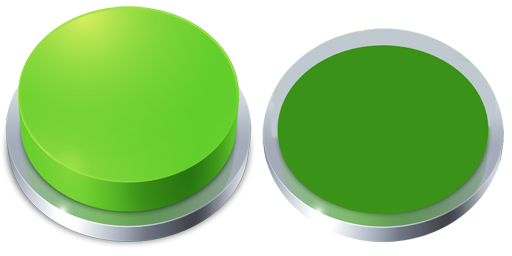
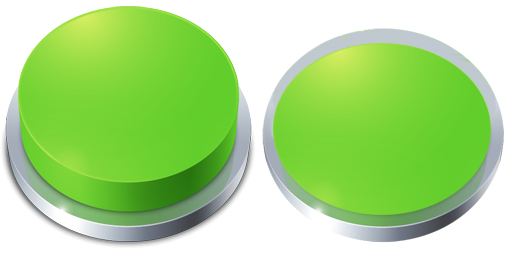
In home.

diff --git a/src/org/game/bangyouscreen/gameLevels/GameLevel.java b/src/org/game/bangyouscreen/gameLevels/GameLevel.java
@@ -31,6 +31,7 @@ public class GameLevel extends ManagedScene {
 	private Text mScoreText;
 	private int mScore = 0;
 	private GameTimer mGameTime;
+	private boolean mTenSeconds = false;
 	private GameScore mGameScore;
 	
 	private AnimatedSprite aidSkill1AS;
@@ -46,7 +47,7 @@ public class GameLevel extends ManagedScene {
 	private Sprite xue2Sprite;
 	
 	private ButtonSprite greenButtonBS;
-	private ButtonSprite blueButtonBS;
+	private ButtonSprite redButtonBS;
 	
 	public static GameLevel getInstance(){
 		return INSTANCE;
@@ -83,7 +84,7 @@ public class GameLevel extends ManagedScene {
 		
 		//BOSS血条
 		xue1Sprite = new Sprite(0f,0f,ResourceManager.xue1,mVertexBufferObjectManager);
-		xue1Sprite.setPosition(mCameraWidth/2f, mCameraHeight - xue1Sprite.getHeight()/2f);
+		xue1Sprite.setPosition(mCameraWidth/2f, mCameraHeight - xue1Sprite.getHeight()/2f-5f);
 		xue1Sprite.setSize(0.6875f*mCameraWidth, 0.05833f*mCameraHeight);
 		//xue1Sprite.setSize(0.5f*mCameraWidth, 0.1f*mCameraHeight);
 		//EntityUtil.setSize("width", 0.6875f, xue1Sprite);
@@ -151,10 +152,10 @@ public class GameLevel extends ManagedScene {
 		registerTouchArea(greenButtonBS);
 		
 		//蓝色按钮
-		blueButtonBS = new ButtonSprite(0f,0f,ResourceManager.greenButtonTTR,mVertexBufferObjectManager);
-		EntityUtil.setSize("height", 1f / 4f, blueButtonBS);
-		blueButtonBS.setPosition(mCameraWidth - blueButtonBS.getWidth() / 2f, blueButtonBS.getHeight() / 2f);
-		blueButtonBS.setOnClickListener(new OnClickListener(){
+		redButtonBS = new ButtonSprite(0f,0f,ResourceManager.redButtonTTR,mVertexBufferObjectManager);
+		EntityUtil.setSize("height", 1f / 4f, redButtonBS);
+		redButtonBS.setPosition(mCameraWidth - redButtonBS.getWidth() / 2f, redButtonBS.getHeight() / 2f);
+		redButtonBS.setOnClickListener(new OnClickListener(){
 
 			public void onClick(ButtonSprite pButtonSprite,
 					float pTouchAreaLocalX, float pTouchAreaLocalY) {
@@ -181,8 +182,8 @@ public class GameLevel extends ManagedScene {
 //					angelbossAS.animate(frameDur,0,1,true);
 //				}
 			}});
-		attachChild(blueButtonBS);
-		registerTouchArea(blueButtonBS);
+		attachChild(redButtonBS);
+		registerTouchArea(redButtonBS);
 		
 		//时钟
 		ButtonSprite clockSprite = new ButtonSprite(0f,0f,ResourceManager.clockTR,mVertexBufferObjectManager);
@@ -284,7 +285,8 @@ public class GameLevel extends ManagedScene {
 				mGameTime.mDigitsSprite[3].setScale(1.0F);
 				mGameTime.mDigitsSprite[2].setScale(1.0F);
 			} else {
-				if(gameTime <= 10f){
+				if((!mTenSeconds) && gameTime <= 10f){
+					mTenSeconds = true;
 					mGameTime.mBounceOut1.reset();
 					mGameTime.mBounceOut2.reset();
 					mGameTime.mDigitsSprite[3].registerEntityModifier(mGameTime.mBounceOut1);
@@ -293,12 +295,20 @@ public class GameLevel extends ManagedScene {
 					mGameTime.mColorOut2.reset();
 					mGameTime.mDigitsSprite[3].registerEntityModifier(mGameTime.mColorOut1);
 					mGameTime.mDigitsSprite[2].registerEntityModifier(mGameTime.mColorOut2);
+				}else if(mTenSeconds && gameTime > 10f){
+					mTenSeconds = false;
+					//mGameTime.mDigitsSprite[3].registerEntityModifier(mGameTime.mColorOut1);
+					//mGameTime.mDigitsSprite[2].registerEntityModifier(mGameTime.mColorOut2);
+					mGameTime.mDigitsSprite[3].clearEntityModifiers();
+					mGameTime.mDigitsSprite[2].clearEntityModifiers();
+					mGameTime.mDigitsSprite[3].setScale(1.0F);
+					mGameTime.mDigitsSprite[2].setScale(1.0F);
 				}
 				mGameTime.adjustTime(gameTime);
 			}
 			
 			//BOSS移动
-			if(angelbossAS.getY() - angelbossAS.getHeight()/2f < blueButtonBS.getY() + blueButtonBS.getHeight()/2f) {
+			if(angelbossAS.getY() - angelbossAS.getHeight()/2f < redButtonBS.getY() + redButtonBS.getHeight()/2f) {
 				mPhysicsHandler.setVelocityY(BOSS_VELOCITY);
 			} else if(angelbossAS.getY() + (angelbossAS.getHeight() * 0.5f) > xue1Sprite.getY() - xue1Sprite.getHeight()/2f) {
 				mPhysicsHandler.setVelocityY(-BOSS_VELOCITY);

diff --git a/src/org/game/bangyouscreen/managers/ResourceManager.java b/src/org/game/bangyouscreen/managers/ResourceManager.java
@@ -40,6 +40,7 @@ public class ResourceManager extends Object{
 	public static TiledTextureRegion numberTTR;
 	
 	public static TiledTextureRegion greenButtonTTR;
+	public static TiledTextureRegion redButtonTTR;
 	public static TextureRegion clockTR;
 	public static TextureRegion aiderHead;
 	public static TextureRegion muTR;
@@ -176,6 +177,9 @@ public class ResourceManager extends Object{
 		BitmapTextureAtlasTextureRegionFactory.setAssetBasePath("gfx/game/");
 		if(greenButtonTTR == null){
 			greenButtonTTR = getLimitableTTR("greenbutton.png",2,1,mNormalTextureOption);
+		}
+		if(redButtonTTR == null){
+			redButtonTTR = getLimitableTTR("redbutton.png",2,1,mNormalTextureOption);
 		}
 		if(clockTR == null){
 			clockTR = getLimitableTR("clock.png",mNormalTextureOption);
